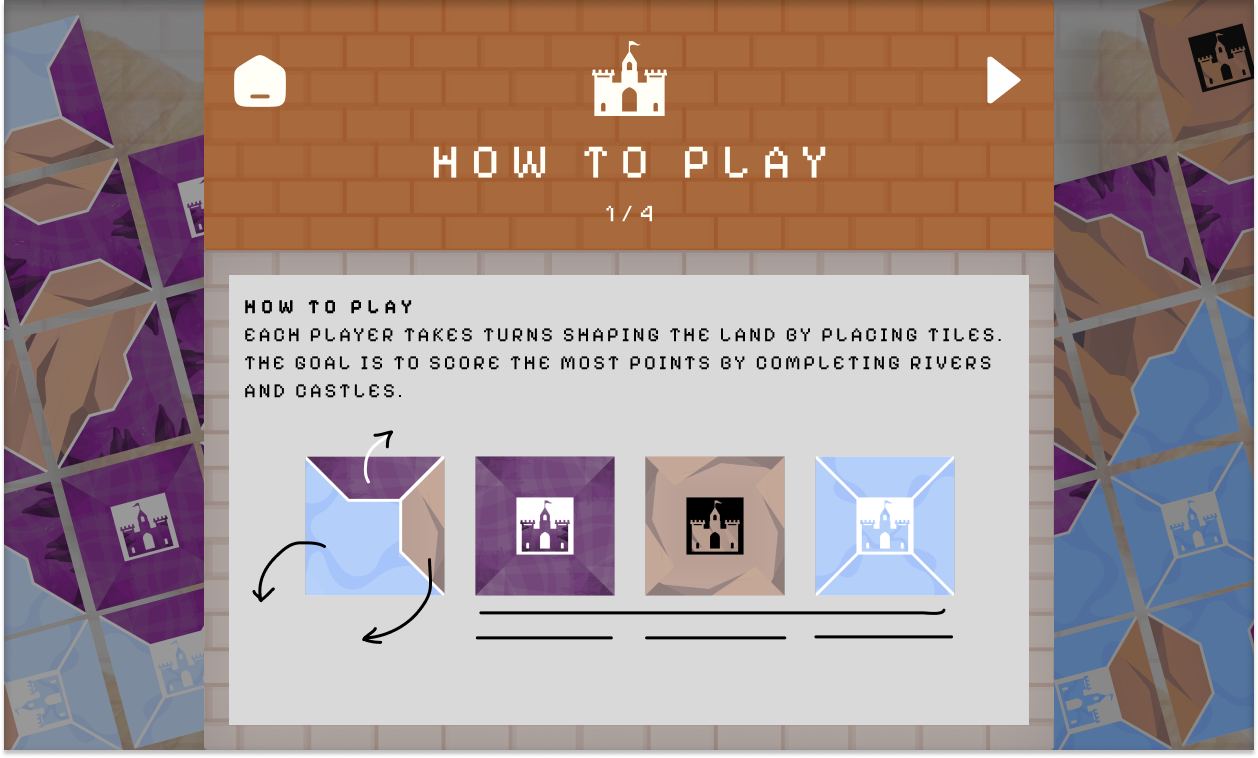
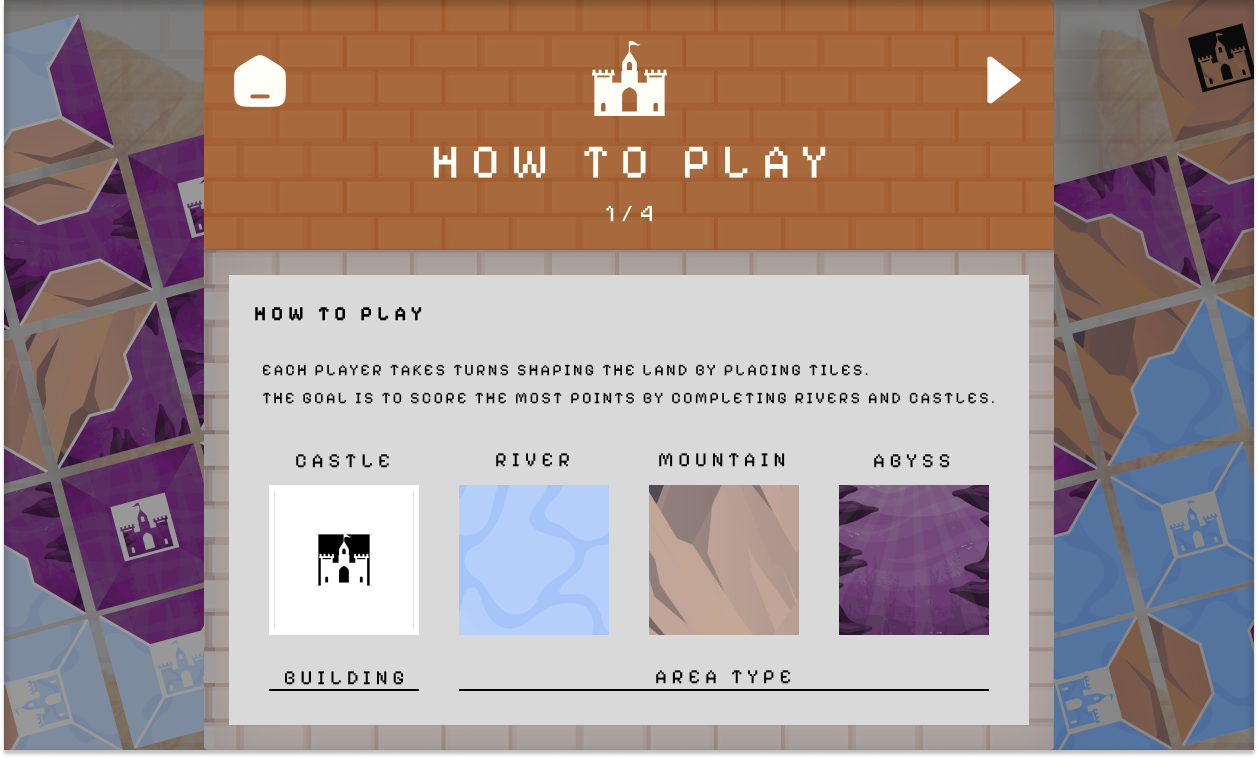
add howToPlay_PageOneToFour

diff --git a/src/gui/HowToPlayPane.java b/src/gui/HowToPlayPane.java
@@ -11,9 +11,10 @@ import utils.MouseEventHandler;
 
 public class HowToPlayPane extends StackPane {
 	
-	private Button homeButton;
+	private Button leftHomeButton;
+	private Button rightHomeButton;
 	private Button nextPageButton;
-//	private Button prevPageButton;
+	private Button prevPageButton;
 	
 	private Pane howToPlayPageOne;
 	private Pane howToPlayPageTwo;
@@ -33,14 +34,15 @@ public class HowToPlayPane extends StackPane {
 	private void initializePages() {
 		// Initialize all pages
 		howToPlayPageOne = createPage(ResourceLoader.getHowToPlayPageOneBackground());
-		howToPlayPageTwo = createPage(ResourceLoader.getHowToPlayPageOneBackground());
-		howToPlayPageThree = createPage(ResourceLoader.getHowToPlayPageOneBackground());
-		howToPlayPageFour = createPage(ResourceLoader.getHowToPlayPageOneBackground());
+		howToPlayPageTwo = createPage(ResourceLoader.getHowToPlayPageTwoBackground());
+		howToPlayPageThree = createPage(ResourceLoader.getHowToPlayPageThreeBackground());
+		howToPlayPageFour = createPage(ResourceLoader.getHowToPlayPageFourBackground());
 
 		// Initialize buttons
-		initializeHomeButton();
+		initializeLeftHomeButton();
+		initializeRightHomeButton();
 		initializeNextPageButton();
-//		initializePrevPageButton();
+		initializePrevPageButton();
 	}
 
 	private Pane createPage(Image backgroundImage) {
@@ -51,17 +53,30 @@ public class HowToPlayPane extends StackPane {
 		return page;
 	}
 
-	private void initializeHomeButton() {
-		homeButton = new Button();
-		homeButton.setPrefHeight(62);
-		homeButton.setPrefWidth(62);
-		homeButton.setTranslateX(400);
-		homeButton.setTranslateY(-290);
-		homeButton.setOpacity(0);
-		homeButton.setOnMouseClicked(e -> {
+	private void initializeLeftHomeButton() {
+		leftHomeButton = new Button();
+		leftHomeButton.setPrefHeight(62);
+		leftHomeButton.setPrefWidth(62);
+		leftHomeButton.setTranslateX(-340);
+		leftHomeButton.setTranslateY(-290);
+		leftHomeButton.setOpacity(0);
+		leftHomeButton.setOnMouseClicked(e -> {
 			GameManager.getInstance().setToStartGamePane();
 		});
-		MouseEventHandler.applyHoverEffect(homeButton);
+		MouseEventHandler.applyHoverEffect(leftHomeButton);
+	}
+	
+	private void initializeRightHomeButton() {
+		rightHomeButton = new Button();
+		rightHomeButton.setPrefHeight(62);
+		rightHomeButton.setPrefWidth(62);
+		rightHomeButton.setTranslateX(380);
+		rightHomeButton.setTranslateY(-290);
+		rightHomeButton.setOpacity(0);
+		rightHomeButton.setOnMouseClicked(e -> {
+			GameManager.getInstance().setToStartGamePane();
+		});
+		MouseEventHandler.applyHoverEffect(rightHomeButton);
 	}
 
 	private void initializeNextPageButton() {
@@ -75,14 +90,16 @@ public class HowToPlayPane extends StackPane {
 		MouseEventHandler.applyHoverEffect(nextPageButton);
 	}
 
-//	private void initializePrevPageButton() {
-//		prevPageButton = new Button();
-//		prevPageButton.setPrefHeight(80);
-//		prevPageButton.setPrefWidth(100);
-//		prevPageButton.setTranslateX(-340);
-//		prevPageButton.setTranslateY(-290);
-//		prevPageButton.setOnMouseClicked(e -> showPage(currentPage - 1));
-//	}
+	private void initializePrevPageButton() {
+		prevPageButton = new Button();
+		prevPageButton.setPrefHeight(60);
+		prevPageButton.setPrefWidth(60);
+		prevPageButton.setTranslateX(-340);
+		prevPageButton.setTranslateY(-290);
+		prevPageButton.setOpacity(0);
+		prevPageButton.setOnMouseClicked(e -> showPage(currentPage - 1));
+		MouseEventHandler.applyHoverEffect(prevPageButton);
+	}
 
 	private void showPage(int pageNumber) {
 		getChildren().clear();
@@ -99,10 +116,12 @@ public class HowToPlayPane extends StackPane {
 		getChildren().add(currentPane);
 
 		// Add buttons based on the current page
-		if (pageNumber == 4) {
-			getChildren().addAll(homeButton);
+		if (pageNumber == 1) {
+			getChildren().addAll(leftHomeButton, nextPageButton);
+		} else if (pageNumber == 4){
+			getChildren().addAll(prevPageButton, rightHomeButton);
 		} else {
-			getChildren().addAll(nextPageButton);
+			getChildren().addAll(prevPageButton, nextPageButton);
 		}
 	}
 }

diff --git a/src/data/ResourceLoader.java b/src/data/ResourceLoader.java
@@ -20,6 +20,9 @@ public class ResourceLoader {
 	public static Image selectColorBackground;
 	public static Image howToPlayBackground;
 	public static Image howToPlayPageOneBackground;
+	public static Image howToPlayPageTwoBackground;
+	public static Image howToPlayPageThreeBackground;
+	public static Image howToPlayPageFourBackground;
 	public static Image inGameBackground;
 	
 	public static Image betweenTwoMountain;
@@ -55,6 +58,10 @@ public class ResourceLoader {
 		inGameBackground = nameToBgImage("inGameBackgroundImage_4");
 		howToPlayBackground = nameToBgImage("howToPlayBackgroundImage");
 		howToPlayPageOneBackground = nameToBgImage("howToPlayPageOneBackgroundImage");
+		howToPlayPageTwoBackground = nameToBgImage("howToPlayPageTwoBackgroundImage");
+		howToPlayPageThreeBackground = nameToBgImage("howToPlayPageThreeBackgroundImage");
+		howToPlayPageFourBackground = nameToBgImage("howToPlayPageFourBackgroundImage");
+		
 		
 		betweenTwoMountain = tileNameToImage("betweenTwoMountain");
 		castleOnAbyss = tileNameToImage("castleOnAbyss");
@@ -100,6 +107,18 @@ public class ResourceLoader {
 	
 	public static Image getHowToPlayPageOneBackground() {
 		return howToPlayPageOneBackground;
+	}
+	
+	public static Image getHowToPlayPageTwoBackground() {
+		return howToPlayPageTwoBackground;
+	}
+
+	public static Image getHowToPlayPageThreeBackground() {
+		return howToPlayPageThreeBackground;
+	}
+	
+	public static Image getHowToPlayPageFourBackground() {
+		return howToPlayPageFourBackground;
 	}
 	
 	public static Image getInGameBackgroundImage() {
